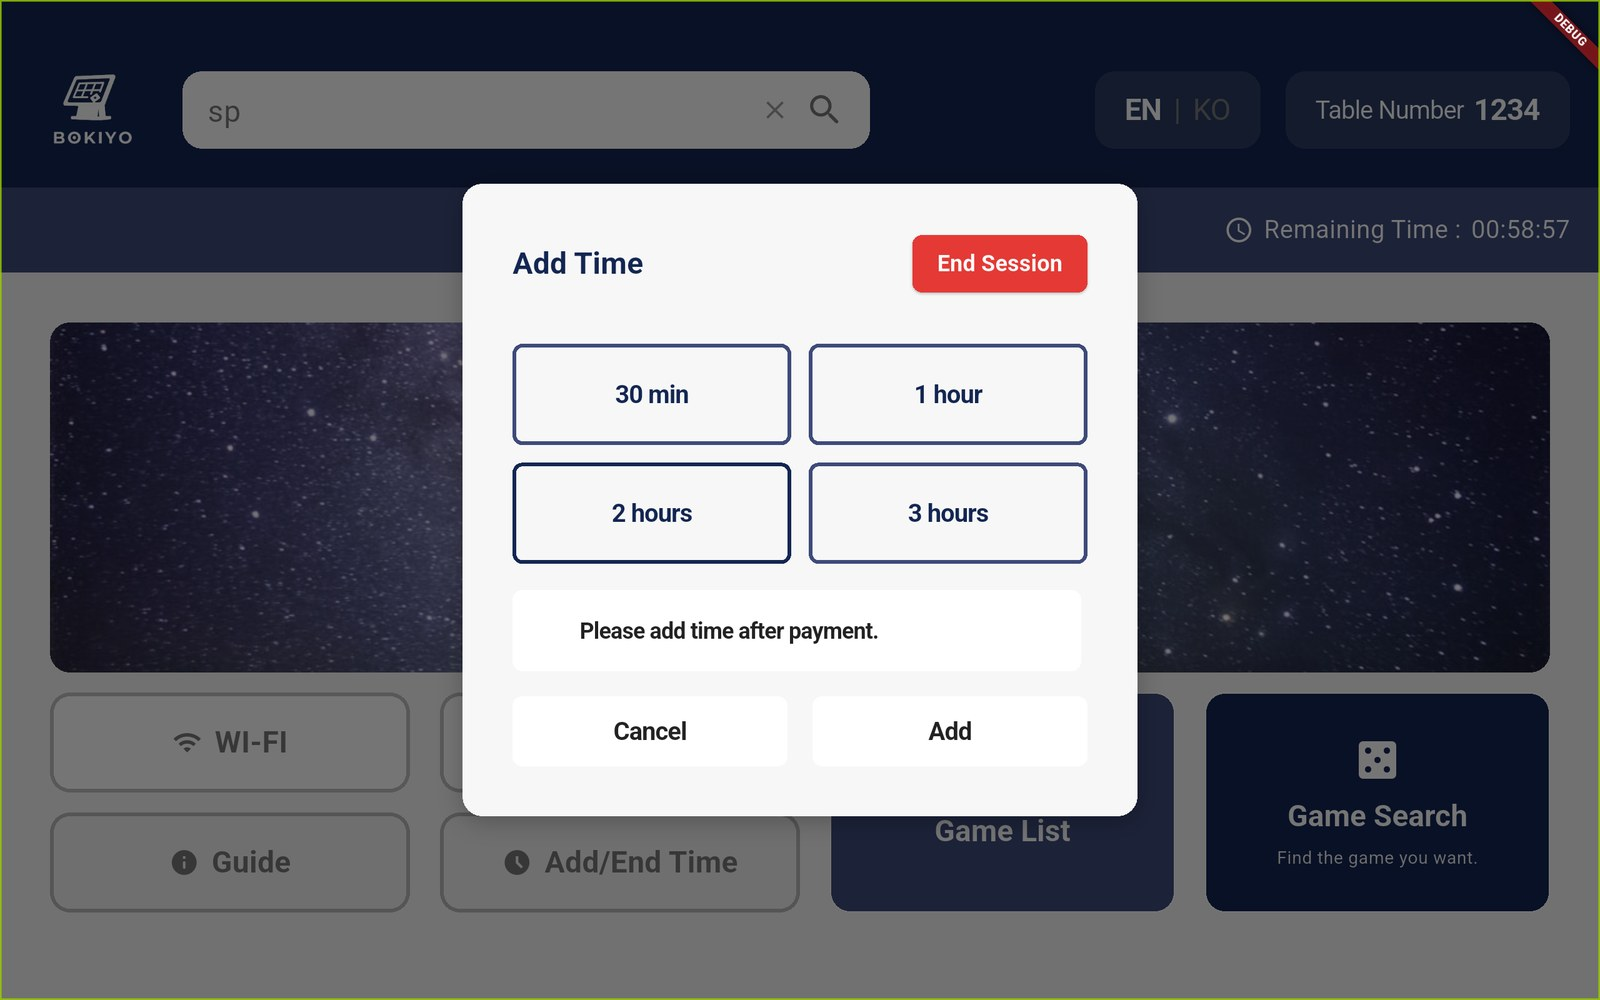
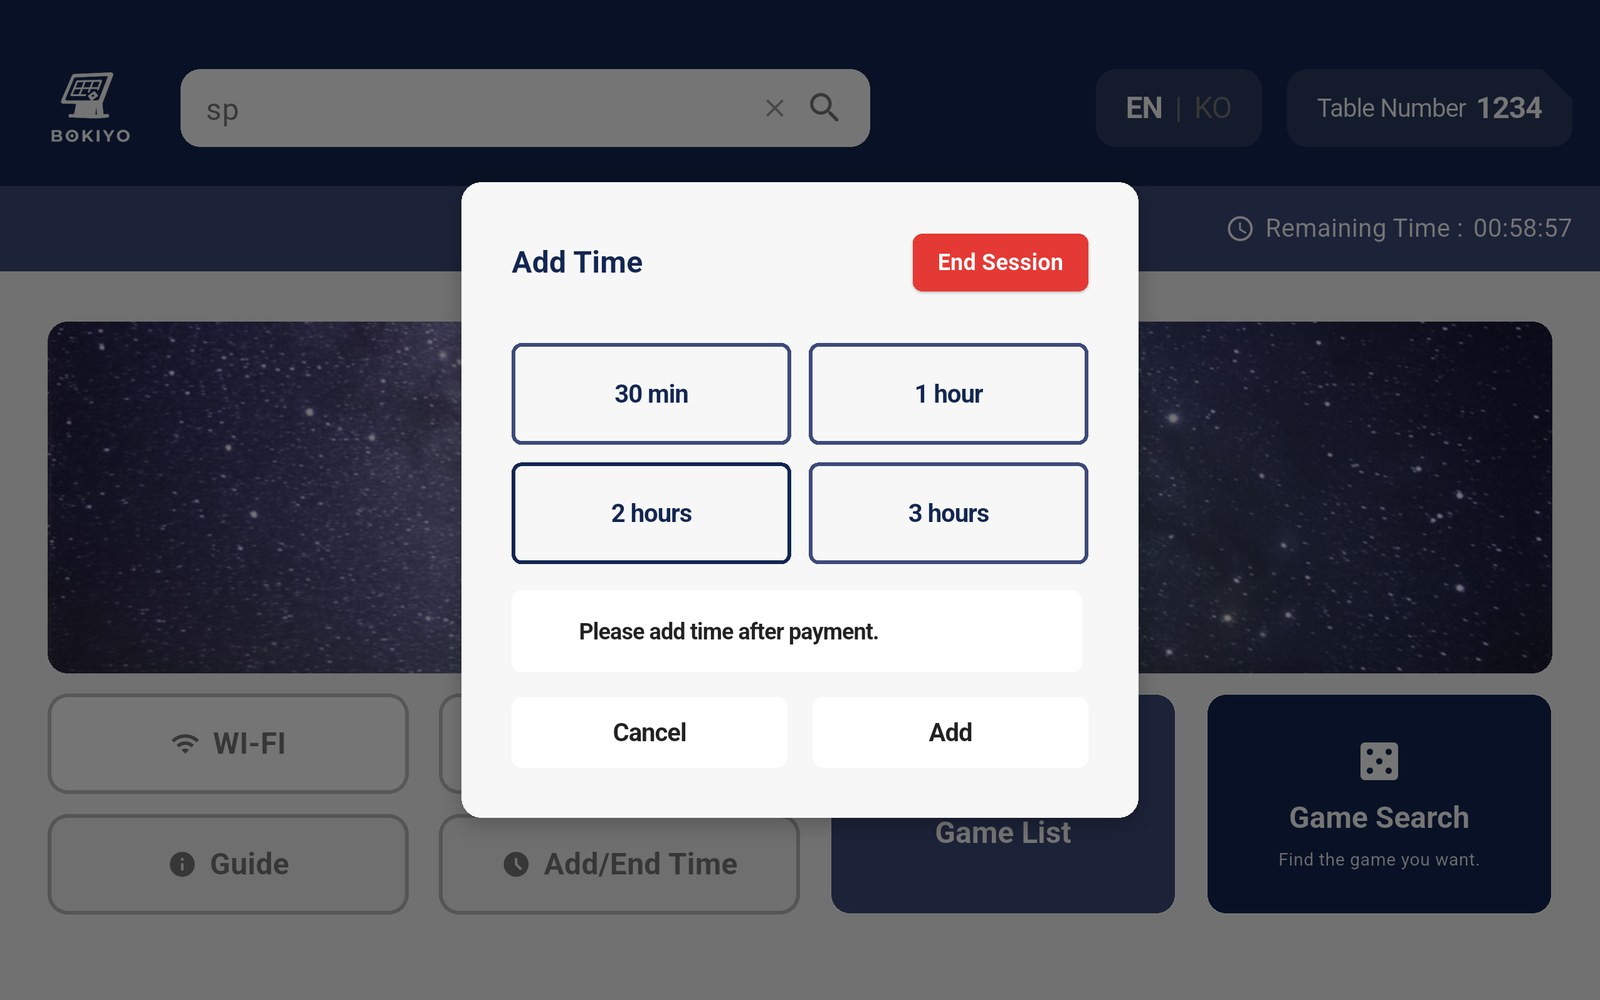
fix: 보키요 첫 화면 사진 높이 맞춤, 키오스크 화면의 DEBUG 표시 제거
- 태블릿 목업을 관리자 웹 목업과 같은 4:3 비율로 맞춤
- 키오스크 시간 추가 화면에서 Flutter DEBUG 배너를 지운 이미지로 교체

Claude-Session: https://claude.ai/code/session_01PJTRkUBmnr5vtoEYHe3Ex1

diff --git a/index.html b/index.html
@@ -679,7 +679,8 @@ body::before { content: ""; position: fixed; inset: 0 0 auto; height: env(safe-a
 .shot { margin: 28px 0 0; }
 .shot img { display: block; width: 100%; height: auto; border: 1px solid var(--line); border-radius: 8px; background: var(--tint); }
 .shot figcaption { font-size: 14px; line-height: 1.65; color: var(--muted); margin-top: 10px; max-width: 52em; }
-.shot-two { display: grid; grid-template-columns: repeat(2, minmax(0, 1fr)); gap: 12px; align-items: start; }
+.shot-two { display: grid; grid-template-columns: repeat(2, minmax(0, 1fr)); gap: 12px; align-items: stretch; }
+.shot-two img { aspect-ratio: 4 / 3; object-fit: cover; }
 .shot.phone img { width: auto; max-width: min(100%, 420px); }
 .shot.mid img { max-width: 560px; }
 .t-row .shot { margin-top: 16px; }
@@ -2859,7 +2860,7 @@ body::before { content: ""; position: fixed; inset: 0 0 auto; height: env(safe-a
     </div>
     <figure class="shot">
       <div class="shot-two">
-        <img loading="lazy" src="img/bokiyo-kiosk-tablet.jpg" width="1080" height="1080" alt="매장 테이블용 태블릿 키오스크 앱의 이용 시작 화면">
+        <img loading="lazy" src="img/bokiyo-kiosk-tablet.jpg" width="1080" height="810" alt="매장 테이블용 태블릿 키오스크 앱의 이용 시작 화면">
         <img loading="lazy" src="img/bokiyo-admin-web.jpg" width="1600" height="1200" alt="노트북과 휴대폰에 띄운 점주용 관리자 웹 대시보드">
       </div>
       <figcaption>왼쪽은 매장 테이블에 두는 태블릿 키오스크 앱(Flutter), 오른쪽은 점주용 관리자 웹(Next.js)입니다. 두 화면 모두 직접 만든 Spring Boot 서버 하나를 씁니다.</figcaption>
